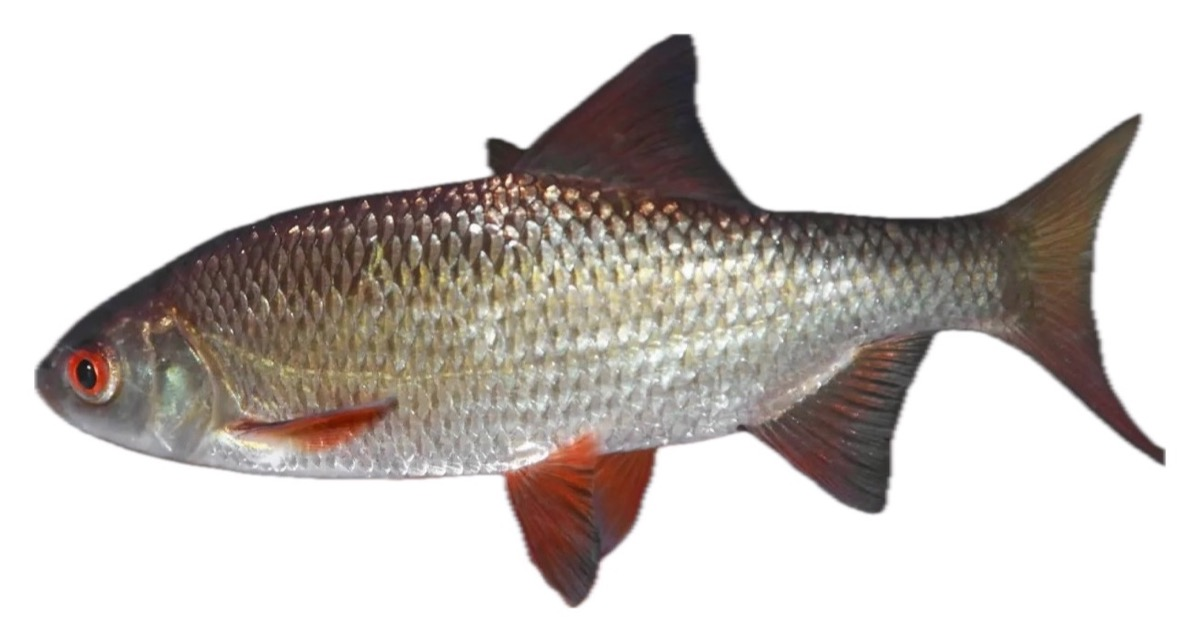
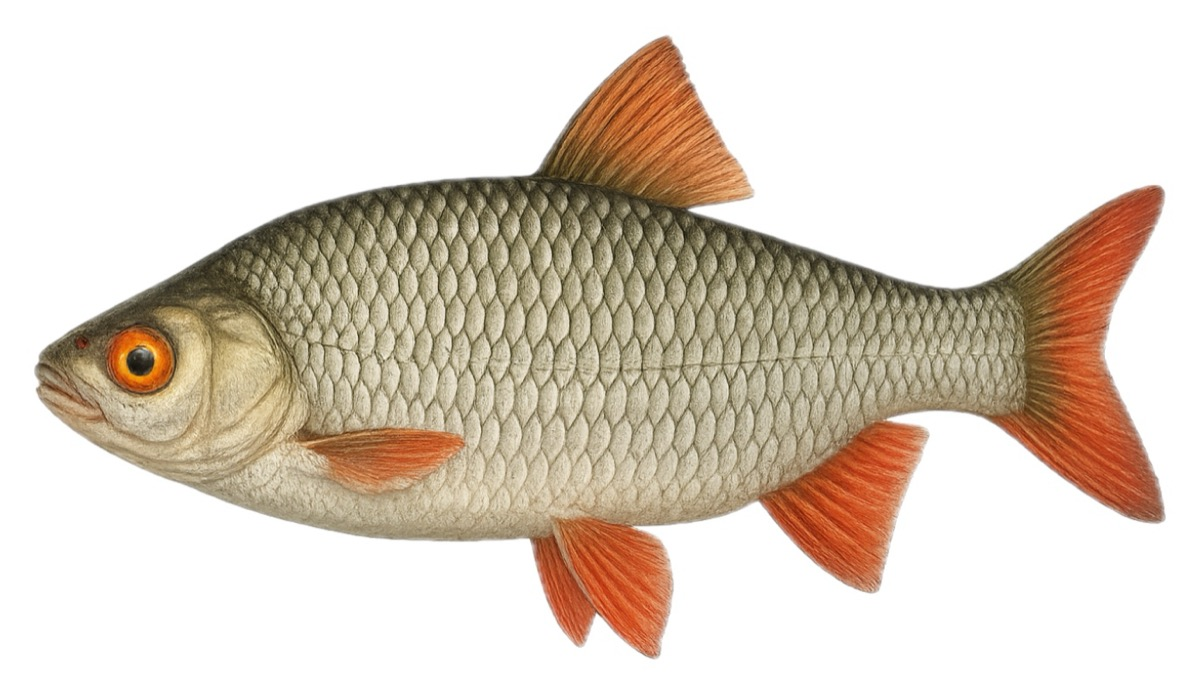
Neues Bild für das Rotauge

diff --git a/data/group-weissfische.js b/data/group-weissfische.js
@@ -25,10 +25,10 @@ export const GROUP = [
     img: 'img/rotauge.jpg',
     path: `${WF} → Bauchkante gerundet → Maul endständig → Afterflosse konkav → 41–46 Seitenlinienschuppen`,
     features: [
-      { text: 'Maul endständig', x: 3.6, y: 57, src: 'SN-A, B11, S25' },
-      { text: 'Bauchflossen setzen genau unter …', x: 43.6, y: 72, src: 'SN-A, B11, MV' },
-      { text: '… dem Beginn der Rückenflosse an', x: 42.9, y: 25.5, src: 'SN-A, B11, MV' },
-      { text: 'Iris rot (Farbe nur zur Bestätigung)', x: 7.1, y: 57.3, src: 'SN-A, B11' },
+      { text: 'Maul endständig', x: 3.3, y: 54, src: 'SN-A, B11, S25' },
+      { text: 'Bauchflossen setzen genau unter …', x: 45.4, y: 75, src: 'SN-A, B11, MV' },
+      { text: '… dem Beginn der Rückenflosse an', x: 45.4, y: 26, src: 'SN-A, B11, MV' },
+      { text: 'Iris rot (Farbe nur zur Bestätigung)', x: 11.7, y: 52, src: 'SN-A, B11' },
       { text: 'Etwa 41–46 Schuppen in der Seitenlinie', src: 'S25, B11' },
     ],
     similar: [

diff --git a/img/SOURCES-weissfische.md b/img/SOURCES-weissfische.md
@@ -5,7 +5,7 @@ Die Bilder stammen von Wikimedia Commons und anglerschmiede.de. Präfix der Comm
 | Art | Datei | Urheber | Lizenz | Bearbeitung |
 |---|---|---|---|---|
 | Zährte | https://cdn.anglerschmiede.de/wp-content/uploads/Zaehrte.png | Anglerschmiede (anglerschmiede.de/lexikon) | nicht angegeben, auf Wunsch des Benutzers verwendet | Hintergrund entfernt |
-| Rotauge | https://cdn.anglerschmiede.de/wp-content/uploads/Rotauge.jpeg | Anglerschmiede (anglerschmiede.de/lexikon) | nicht angegeben, auf Wunsch des Benutzers verwendet | unteren Fisch ausgeschnitten, Hintergrund entfernt, gespiegelt |
+| Rotauge | https://fv-wangen.de/media/original_images/rotauge.png (Seite: https://fv-wangen.de/fischarten/rotauge/) | Fischereiverein Wangen | nicht angegeben, auf Wunsch des Benutzers verwendet | ersetzt; Hintergrund entfernt |
 | Moderlieschen | https://cdn.anglerschmiede.de/wp-content/uploads/Moderlieschen.png | Anglerschmiede (anglerschmiede.de/lexikon) | nicht angegeben, auf Wunsch des Benutzers verwendet | Hintergrund entfernt |
 | Hasel | https://cdn.anglerschmiede.de/wp-content/uploads/Hasel.png | Anglerschmiede (anglerschmiede.de/lexikon) | nicht angegeben, auf Wunsch des Benutzers verwendet | Hintergrund entfernt |
 | Döbel | https://cdn.anglerschmiede.de/wp-content/uploads/Aitel.png | Anglerschmiede (anglerschmiede.de/lexikon) | nicht angegeben, auf Wunsch des Benutzers verwendet | Hintergrund entfernt |
